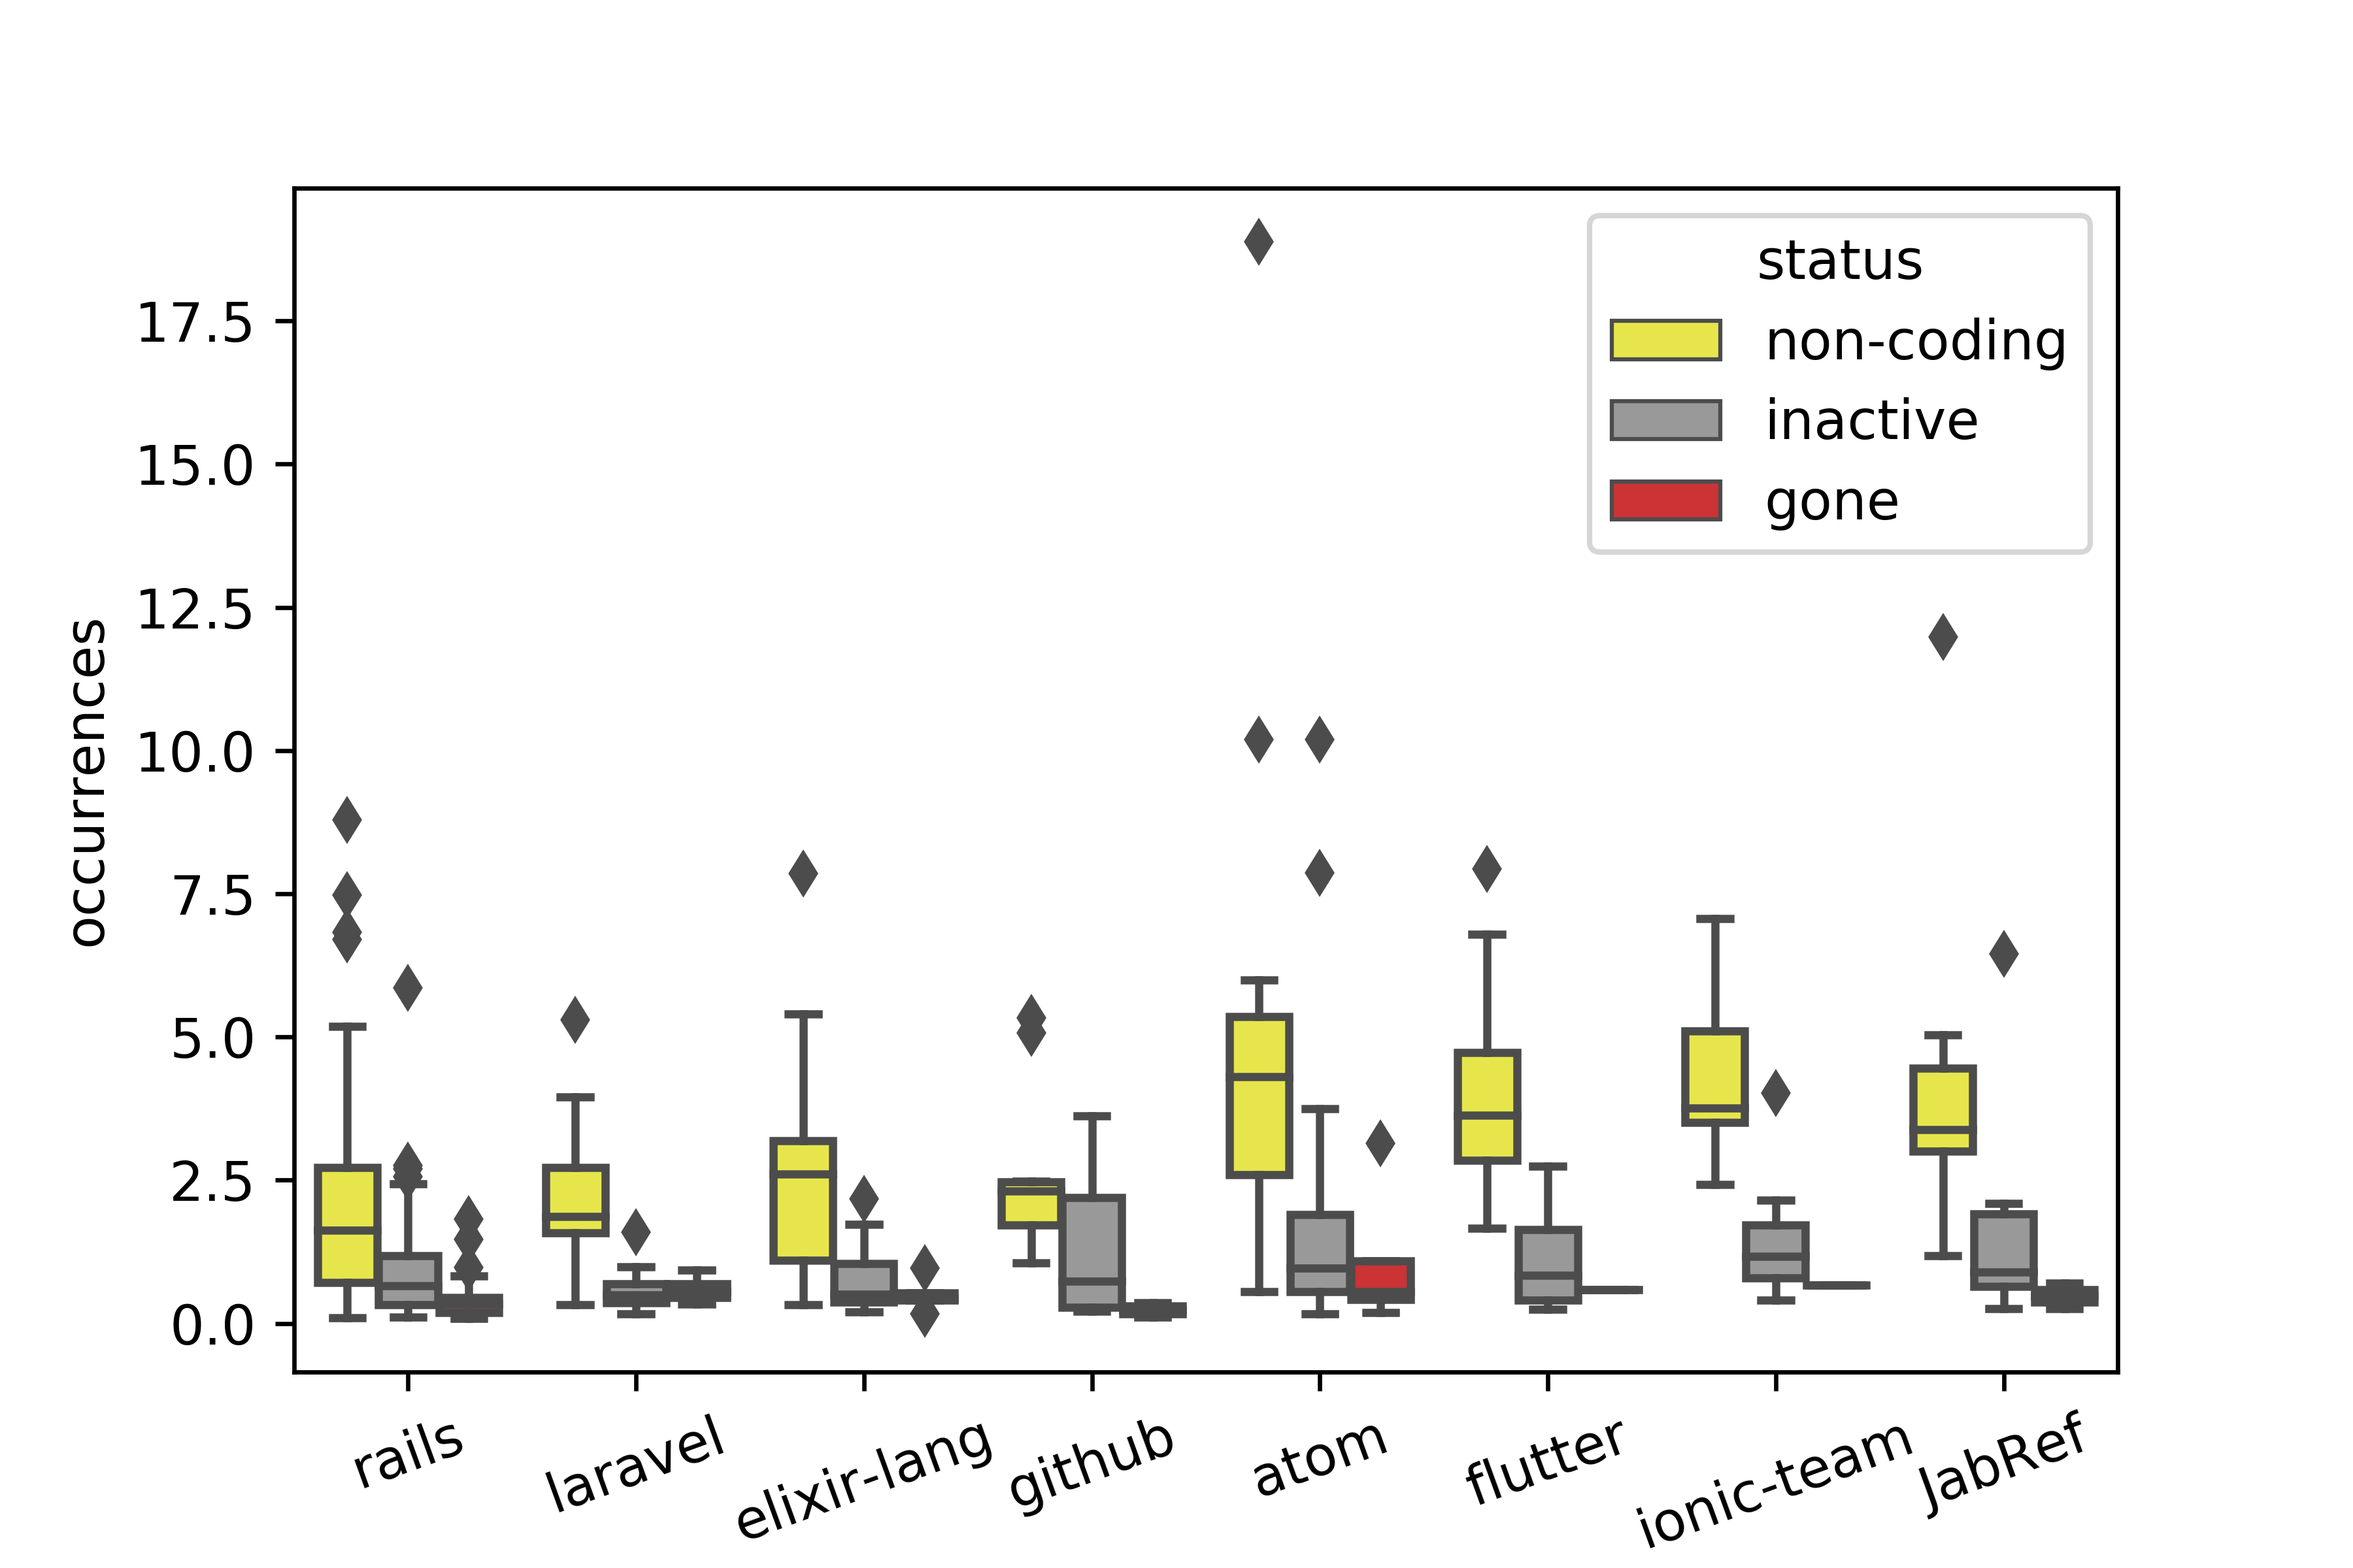
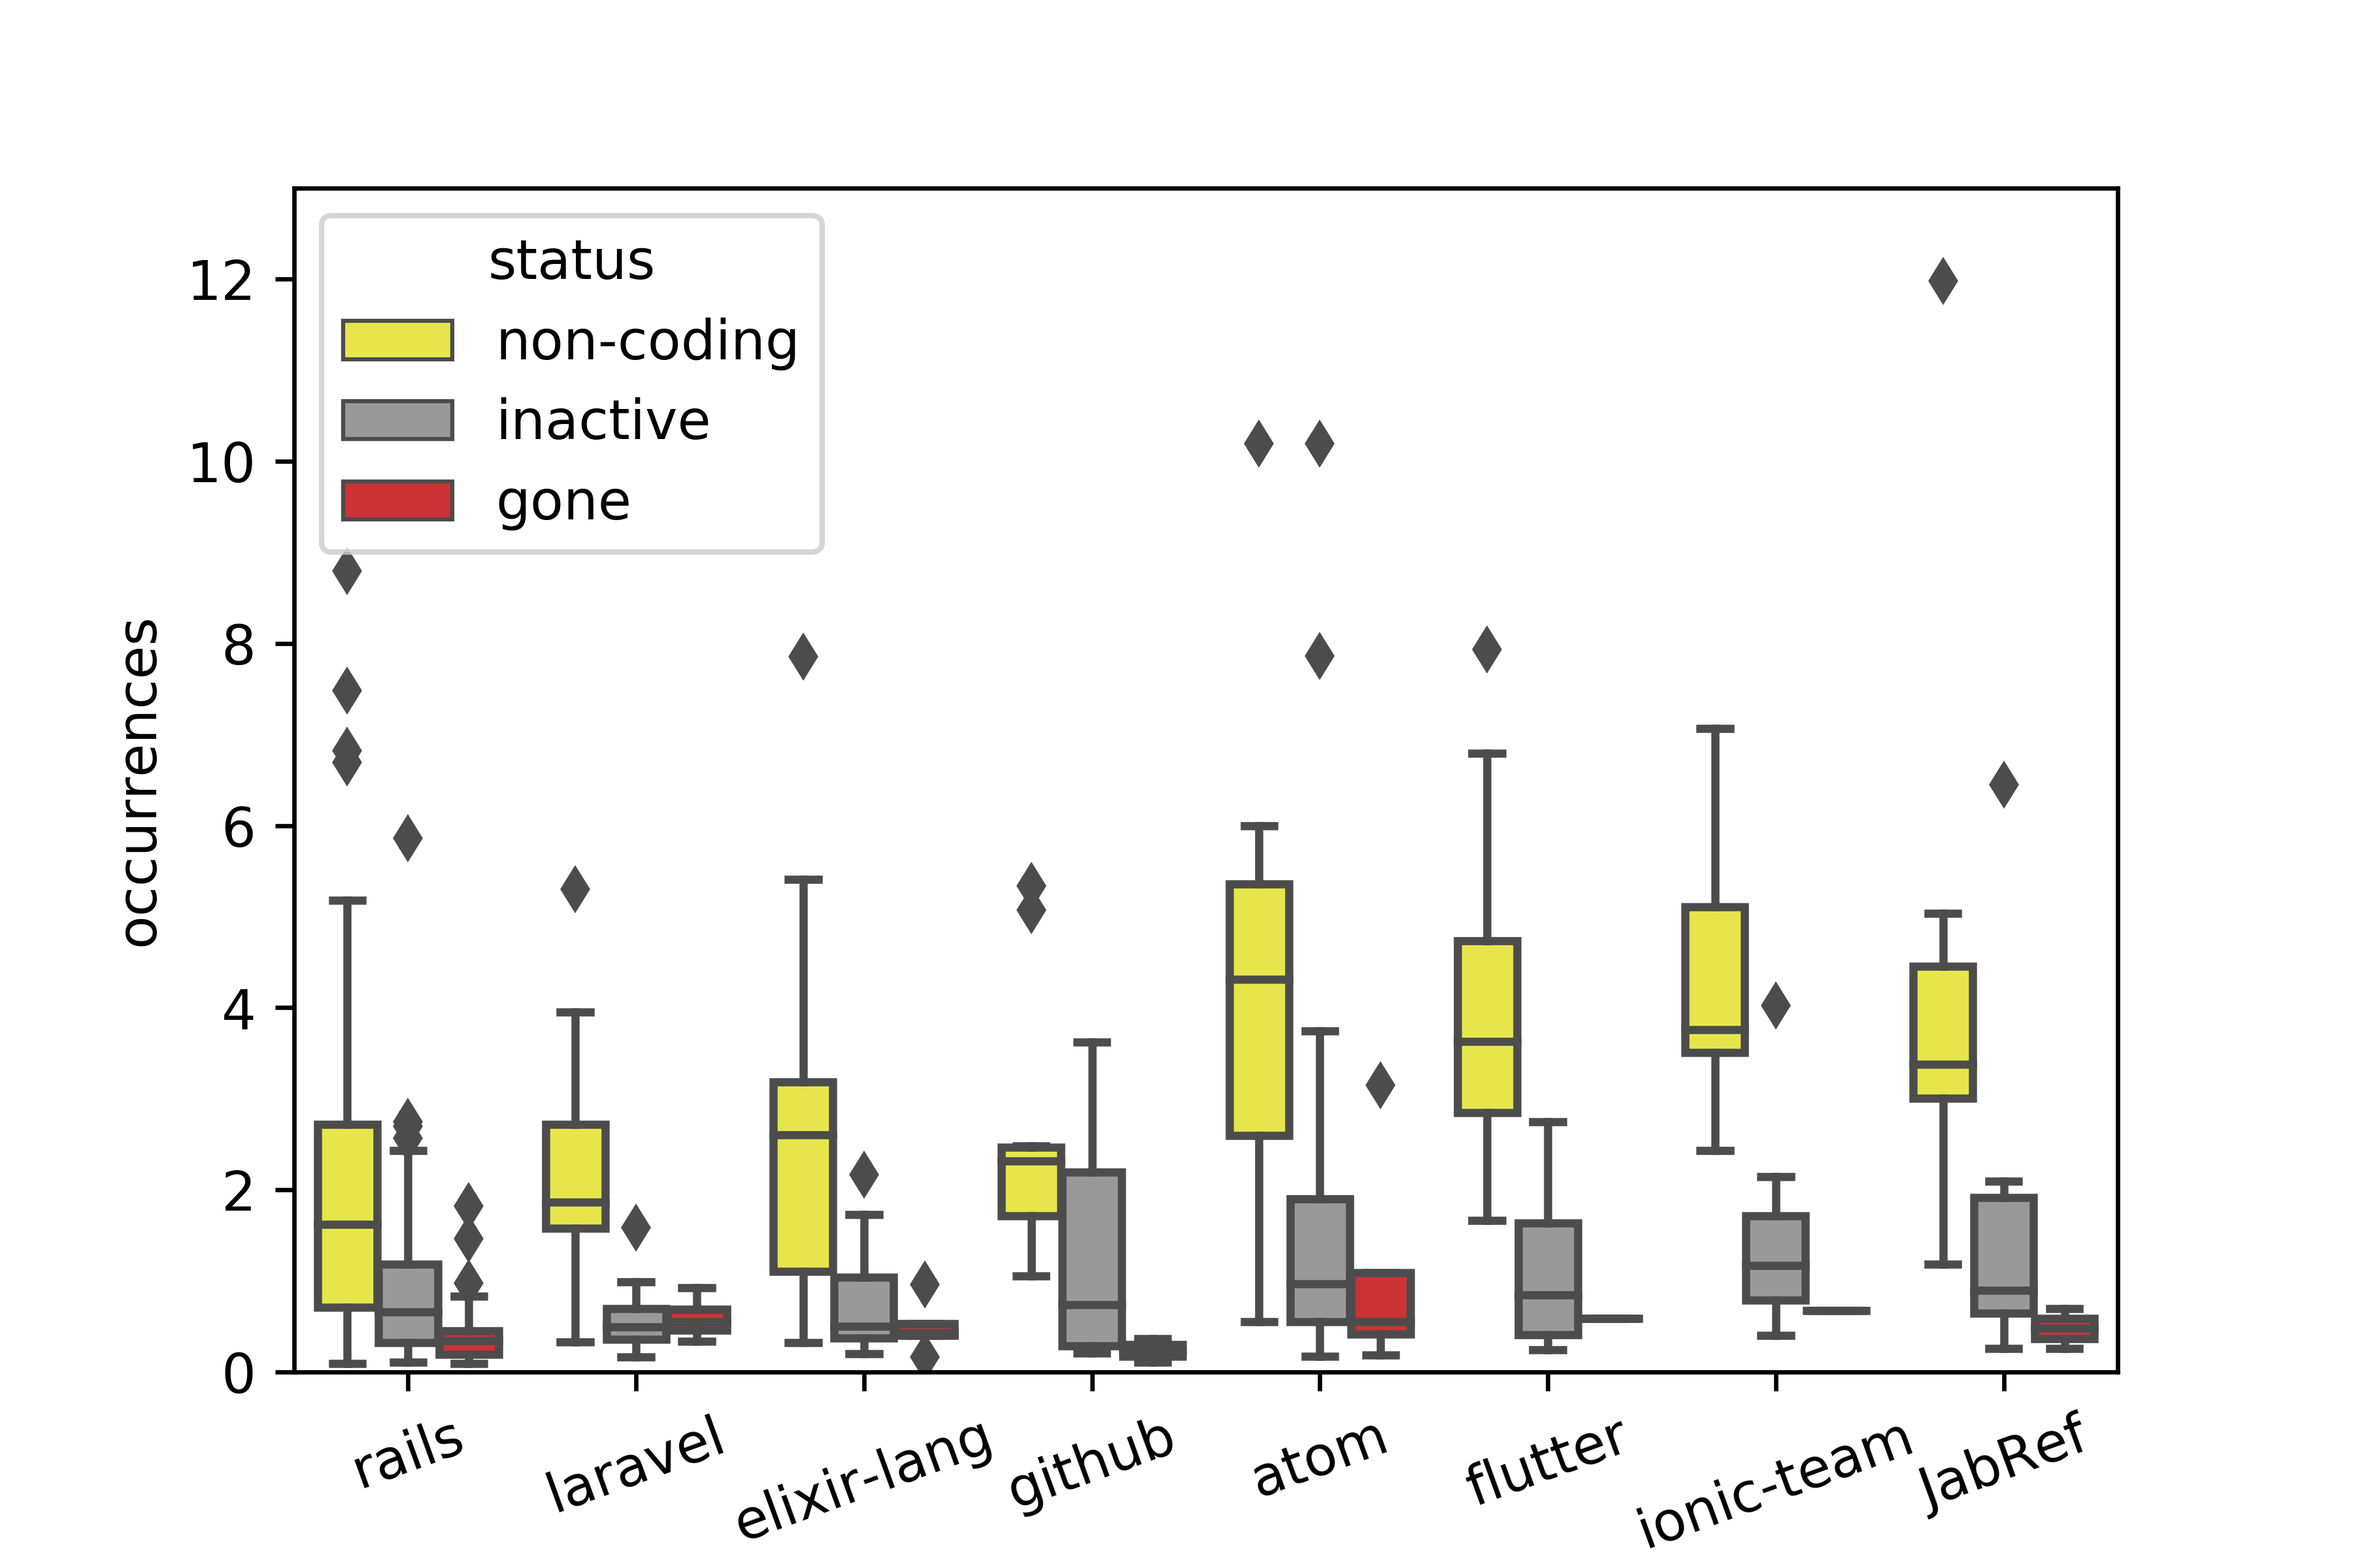
bug fixed, added mean difference tests

diff --git a/scripts_OrganizationLevel/utilities_Organization.py b/scripts_OrganizationLevel/utilities_Organization.py
@@ -115,7 +115,7 @@ def reportPlotAllProjectBreaksDistribution(o_names, p_names, path):
     breaks_stats.to_csv(path+'/breaks_stats_all.csv', sep=';', na_rep='NA', header=True, index=False, mode='w', encoding='utf-8', quoting=None, quotechar='"', line_terminator='\n', decimal='.')
     
     labels=[]
-    for name in o_names:
+    for name in p_names:
         if name=='framework':
             labels.append('laravel')
         else:
@@ -125,7 +125,7 @@ def reportPlotAllProjectBreaksDistribution(o_names, p_names, path):
     projects_counts.reverse()
     plt.boxplot(projects_counts)
     labels.reverse()
-    plt.xticks(numpy.arange(1,len(o_names)+1), labels, rotation=20)
+    plt.xticks(numpy.arange(1,len(p_names)+1), labels, rotation=20)
     # Pad margins so that markers don't get clipped by the axes: plt.margins(0.2)
     # Tweak spacing to prevent clipping of tick-label: plt.subplots_adjust(bottom=0.15)
     plt.grid(False)
@@ -444,10 +444,11 @@ def getDeadsFromSleepingDetail(period_detail):
     return others_deads_df
 
 def printProjectsDurationsLogScale(o_names, path):
-        import numpy, pandas
+        import numpy, pandas, scipy
         import seaborn as sns
         
         data = pandas.DataFrame(columns=['project', 'status', 'average_duration'])
+        t_stats_df = pandas.DataFrame(columns=['project', 't_stat', 'p_value (t)', 'u_stat', 'p_value (u)'])
         for i in range(0, len(o_names)):
             chosen_project = i # FROM 0 TO n-1
             
@@ -455,6 +456,7 @@ def printProjectsDurationsLogScale(o_names, path):
             s_avg_list=[]
             h_avg_list=[]
             current_project_df = pandas.read_csv(path+'/'+project_name+'/statuses_durations.csv', sep=';')
+            
             for l in current_project_df['sleepings'].tolist():
                 if l!='[]':
                     l=list(map(int,l.replace('[','').replace(']','').split(',')))
@@ -473,14 +475,25 @@ def printProjectsDurationsLogScale(o_names, path):
                         add(data, ['laravel', 'inactive', hibernation_avg])
                     else:
                         add(data, [project_name, 'inactive', hibernation_avg])
+            t_stats = scipy.stats.ttest_ind(s_avg_list, h_avg_list)
+            u_stats = scipy.stats.mannwhitneyu(s_avg_list, h_avg_list)
+            add(t_stats_df, [project_name, t_stats[0], t_stats[1], u_stats[0], u_stats[1]])
+            
         print('S: '+str(min(s_avg_list))+' - '+str(max(s_avg_list))+' Avg: '+str(numpy.mean(s_avg_list)))
         print('H: '+str(min(h_avg_list))+' - '+str(max(h_avg_list))+' Avg: '+str(numpy.mean(h_avg_list)))
         
+        t_stats_df.to_csv(path+'/t_stats.csv', sep=';', na_rep='NA', header=True, index=False, mode='w', encoding='utf-8', quoting=None, quotechar='"', line_terminator='\n', decimal='.')
+
         pal=[sns.color_palette('Set1')[5],sns.color_palette('Set1')[8],sns.color_palette('Set1')[0]]
         sns_plot = sns.boxplot(x='project', y='average_duration', hue="status", hue_order=['non-coding','inactive'], data=data, palette=pal)
         sns_plot.set_yscale('log')
         sns_plot.set_xticklabels(sns_plot.get_xticklabels(),rotation=20)
         sns_plot.get_figure().savefig(path+"/durationsDistributions", dpi=600)
+
+main_path = cfg.super_path
+organizations = ['JabRef','ionic-team','flutter','atom','github','elixir-lang','laravel','rails']
+printProjectsDurationsLogScale(organizations, main_path)
+
 
 def printProjectsDurationsLogTransformed(o_names, path):
         import numpy, pandas
@@ -751,6 +764,7 @@ def plotAllProjectInactivities(o_names, path):
     pal=[sns.color_palette('Set1')[5],sns.color_palette('Set1')[8],sns.color_palette('Set1')[0]]
     sns_plot = sns.boxplot(x='project', y='occurrences', hue="status", hue_order=['non-coding','inactive','gone'], data=data, palette=pal)
     #sns_plot.set_yscale('log')
+    sns_plot.set(ylim=(0, 13))
     sns_plot.set_xticklabels(sns_plot.get_xticklabels(), rotation=20)
     sns_plot.get_figure().savefig(path+"/Inactivities_occurrences.png", dpi=600)
     

diff --git a/scripts_OrganizationLevel/ProjectAnalyzer_Organization.py b/scripts_OrganizationLevel/ProjectAnalyzer_Organization.py
@@ -41,7 +41,7 @@ projects_stats.to_csv(main_path+'/projects_stats.csv', sep=';', na_rep='NA', hea
 util.tableCumulativeTransitions(organizations, main_path)
 util.tableCumulativeTransitionsPercentages(main_path)
 util.tableTransitionsPercentagesProjectList(main_path)
-util.reportPlotAllProjectBreaksDistribution(organizations,p_names, main_path)
+util.reportPlotAllProjectBreaksDistribution(organizations, p_names, main_path)
 util.tableTransitionsPercentages(main_path)
 util.printProjectsDurationsLogTransformed(organizations, main_path)
 util.printProjectsDurationsLogScale(organizations, main_path)
